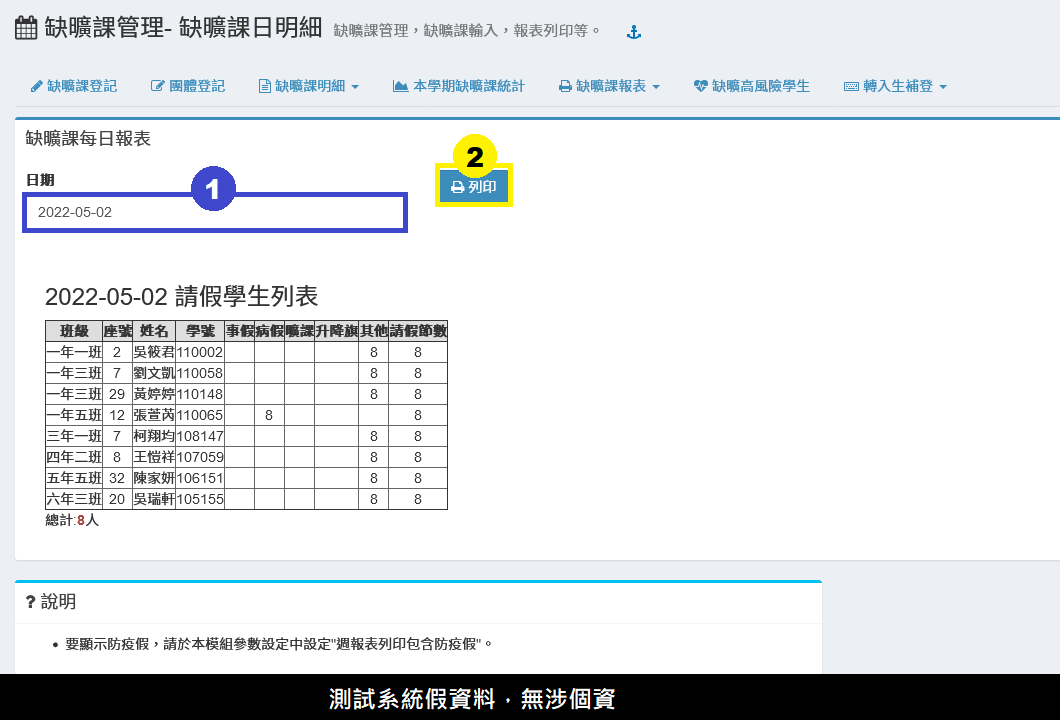
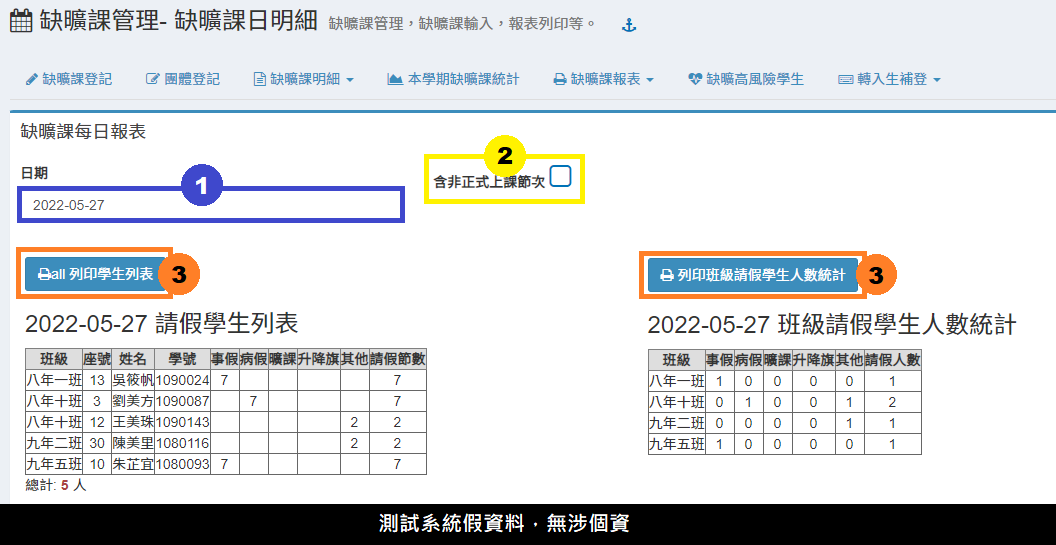
GitBook: [#415] [更新]學生資料管理-參數設定_220831

Changed region(s): [[0.0, 0.0936, 1.0, 0.9982], [0.0, 0.0, 0.5625, 0.0624], [0.5938, 0.0312, 0.625, 0.0624]]

diff --git a/undefined/que-guan-li.md b/undefined/que-guan-li.md
@@ -4,7 +4,7 @@
 
 ![](<../.gitbook/assets/absent-sign (1).png>)
 
-1. 缺曠課登記只能處理當學期學生缺曠課資料，請先選擇班級及要登錄之日期。
+1. 請先選擇班級及要登錄之日期。
 2. 依照請假學生請假節數及假別個別登錄。
 3. 登錄完畢請按 「**儲存登記**」 按鈕。
 4. 如果學生請假一天，可以點選該生整天打勾按鈕。
@@ -36,7 +36,7 @@
 6. 請選擇**「請假假別」**。&#x20;
 7. 完成設定後，請按 **「儲存登記」**，已完成儲存資料。
 
-{% hint style="info" %}
+{% hint style="danger" %}
 請注意！團體登記僅提供本學期資料登錄，不提供非本學期缺曠課紀錄補登。
 {% endhint %}
 
@@ -89,15 +89,17 @@
 
 ### 缺曠課日明細
 
-> 本功能提供列印每日請假學生資料。
+> 本功能提供列印每日請假學生資料及班級學生請假統計。
 
 ![](../.gitbook/assets/absent-date-report.png)
 
 1. 請選擇**「日期」**。
-2. 點擊**「列印」**可列印每日缺曠課日報表。
+2. 可勾選**「含非正式上課節次」**，統計含非正式課程的缺曠紀錄。
+3. 點擊**「列印」**可列印每日學生或班級的缺曠課日報表。
 
 {% hint style="info" %}
-如要顯示防疫假，請於本模組[參數設定](que-guan-li.md#can-shu-she-ding)中設定"週報表列印包含防疫假"。
+* 如要顯示防疫假，請於本模組[參數設定](que-guan-li.md#can-shu-she-ding)中設定"週報表列印包含防疫假"。
+* 含非正式上課節次需於[學期初設定－節次](../jiao/qi-chu-ding.md#bian-xiu-jie-ci)中設定節次，並勾選**「登錄缺曠課」**。
 {% endhint %}
 
 ### 缺曠課週明細
@@ -112,7 +114,7 @@
 4. 點擊**「列印曠課通知書」**，可列印各學生通知家長通知書。
 
 {% hint style="info" %}
-如週報表要列印防疫假，請於本模組[參數設定](que-guan-li.md#can-shu-she-ding)中設定"週報表列印包含防疫假"。
+如週報表要列印防疫假，請於本模組[參數設定](que-guan-li.md#can-shu-she-ding)中設定"週、月報表列印包含防疫假"。
 {% endhint %}
 
 ### 缺曠課月報表
@@ -122,6 +124,10 @@
 1. 請選擇**「學期**」、**「統計月份」**及**「統計起訖日」**。
 2. 點擊**「分班列印」**可列印／下載各班月報表提供各班張貼。&#x20;
 3. 點擊**「合班列印」**列印／下載合班週報表提供全校公告。
+
+{% hint style="info" %}
+如月報表要列印防疫假，請於本模組[參數設定](que-guan-li.md#can-shu-she-ding)中設定"週、月報表列印包含防疫假"。
+{% endhint %}
 
 ### 班級歷年缺曠課統計報表
 

diff --git a/jiao/sheng-liao-guan-li.md b/jiao/sheng-liao-guan-li.md
@@ -1242,4 +1242,9 @@
     `不可編輯`
 
     `可編輯`
+31. 學生作業模組學生可否編輯個人像片(需先設定學生作業中學生資料權限)
+
+    `不可編輯`
+
+    `可編輯`
 
